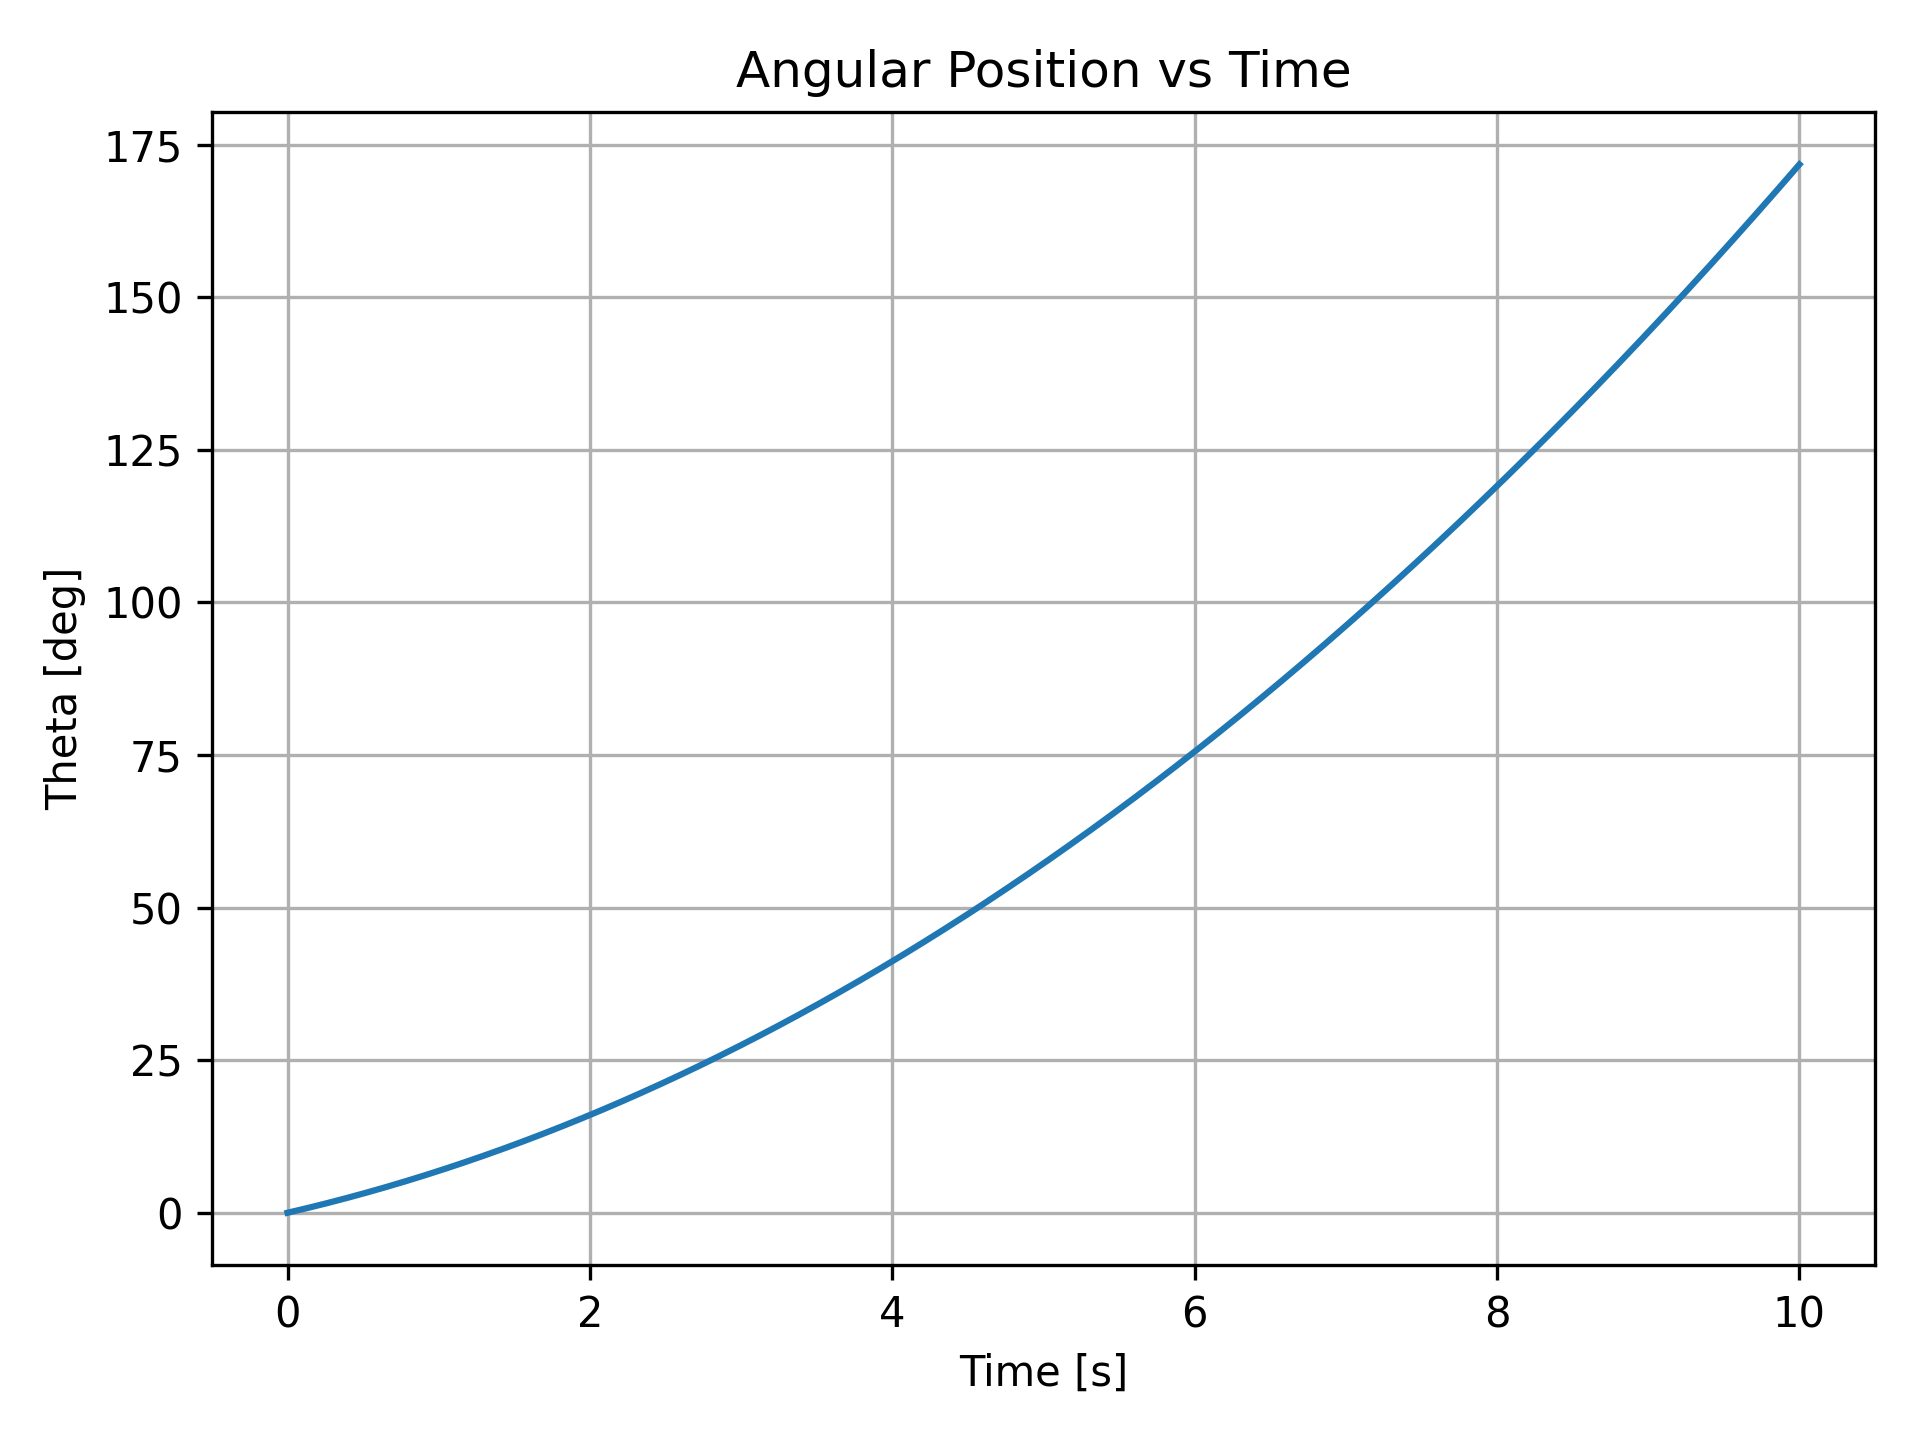
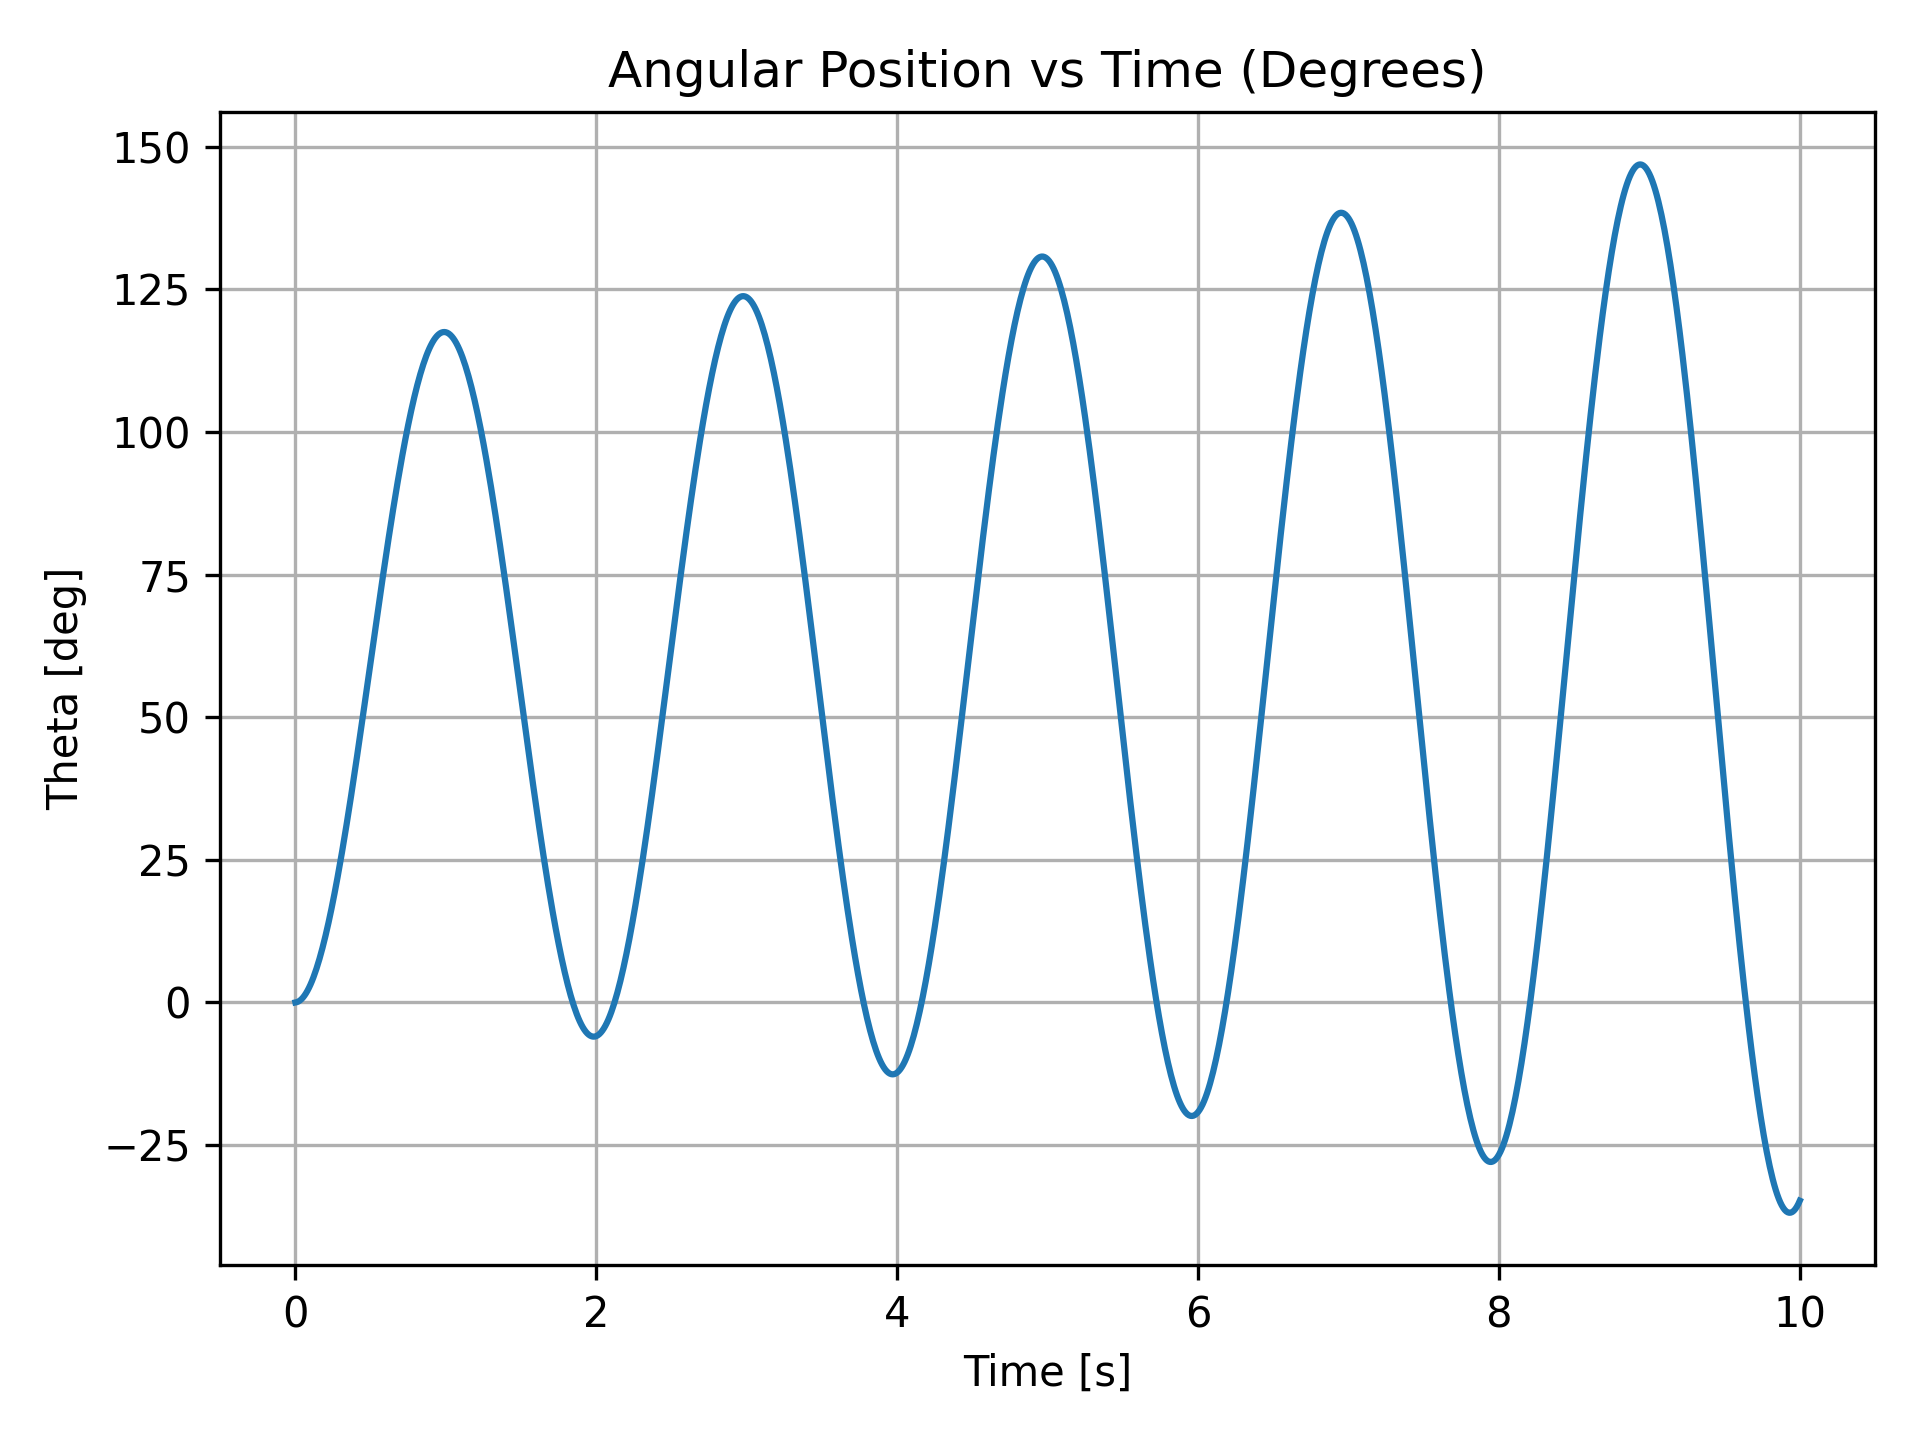
Add proportional closed'loop attitude control

diff --git a/src/plotter.py b/src/plotter.py
@@ -5,8 +5,9 @@ This module handles plotting and saving simulation results.
 """
 
 from pathlib import Path
-import matplotlib.pyplot as plt
 import numpy as np
+import matplotlib.pyplot as plt
+
 
 def plot_results(times, theta, omega, show_plots=True):
     """
@@ -21,13 +22,12 @@ def plot_results(times, theta, omega, show_plots=True):
     results_dir = Path("results")
     results_dir.mkdir(exist_ok=True)
 
-    # Convert to degrees
     theta_deg = np.degrees(theta)
 
-    # Plot 1: Angular position Radians
+    # Angular position in radians
     plt.figure()
     plt.plot(times, theta)
-    plt.title("Angular Position vs Time")
+    plt.title("Angular Position vs Time (Radians)")
     plt.xlabel("Time [s]")
     plt.ylabel("Theta [rad]")
     plt.grid()
@@ -37,10 +37,10 @@ def plot_results(times, theta, omega, show_plots=True):
     if show_plots:
         plt.show(block=False)
 
-    # Plot 2: Angular position Degrees
+    # Angular position in degrees
     plt.figure()
     plt.plot(times, theta_deg)
-    plt.title("Angular Position vs Time")
+    plt.title("Angular Position vs Time (Degrees)")
     plt.xlabel("Time [s]")
     plt.ylabel("Theta [deg]")
     plt.grid()
@@ -50,7 +50,7 @@ def plot_results(times, theta, omega, show_plots=True):
     if show_plots:
         plt.show(block=False)
 
-    # Plot 3: Angular velocity
+    # Angular velocity
     plt.figure()
     plt.plot(times, omega)
     plt.title("Angular Velocity vs Time")
@@ -58,12 +58,10 @@ def plot_results(times, theta, omega, show_plots=True):
     plt.ylabel("Omega [rad/s]")
     plt.grid()
     plt.tight_layout()
-    plt.savefig(results_dir / "angular_velocity_rad.png", dpi=300)
+    plt.savefig(results_dir / "angular_velocity.png", dpi=300)
 
     if show_plots:
         plt.show(block=False)
-
-    if show_plots:
         plt.pause(0.1)
 
     plt.close("all")

diff --git a/src/simulator.py b/src/simulator.py
@@ -11,7 +11,8 @@ from src.dynamics import compute_angular_acceleration
 
 def run_simulation(
     inertia_kgm2: float,
-    torque_nm: float,
+    theta_target_rad: float,
+    kp: float,
     theta0_rad: float,
     omega0_rad_s: float,
     dt_s: float,
@@ -22,7 +23,8 @@ def run_simulation(
 
     Args:
         inertia_kgm2: Moment of inertia [kg*m^2]
-        torque_nm: Applied torque [N*m]
+        theta_target_rad: Desired angular position [rad]
+        kp: Proportional gain
         theta0_rad: Initial angular position [rad]
         omega0_rad_s: Initial angular velocity [rad/s]
         dt_s: Simulation step [s]
@@ -32,18 +34,30 @@ def run_simulation(
         times: Time vector [s]
         theta: Angular position history [rad]
         omega: Angular velocity history [rad/s]
+        torque_cmd: Control torque history [N*m]
+        error_hist: Error history [rad]
     """
     times = np.arange(0.0, t_final_s + dt_s, dt_s)
+    
     theta = np.zeros_like(times)
     omega = np.zeros_like(times)
-
+    torque_cmd = np.zeros_like(times)
+    error_hist = np.zeros_like(times)
+    
     theta[0] = theta0_rad
     omega[0] = omega0_rad_s
+    error_hist[0] = theta_target_rad - theta0_rad
+    torque_cmd[0] = kp * error_hist[0]
 
     for k in range(1, len(times)):
-        alpha = compute_angular_acceleration(torque_nm, inertia_kgm2)
+        error = theta_target_rad - theta[k - 1]
+        torque = kp * error
+
+        alpha = compute_angular_acceleration(torque, inertia_kgm2)
 
         omega[k] = omega[k - 1] + alpha * dt_s
         theta[k] = theta[k - 1] + omega[k - 1] * dt_s
+        error_hist[k] = error
+        torque_cmd[k] = torque
 
-    return times, theta, omega
+    return times, theta, omega, torque_cmd, error_hist

diff --git a/src/config.py b/src/config.py
@@ -2,14 +2,15 @@
 Simulation configuration parameters.
 
 This module centralizes all tunable values used by the simulator.
-Keeping parameters here makes the project easier to maintain and scale.
 """
 
 INERTIA_KGM2 = 0.05       # Moment of inertia [kg*m^2]
-TORQUE_NM = .002          # Applied torque [N*m]
 
 THETA0_RAD = 0.0          # Initial angular position [rad]
 OMEGA0_RAD_S = 0.1        # Initial angular velocity [rad/s]
+
+THETA_TARGET_RAD = 1.0    # Desired angular position [rad]
+KP = 0.5                  # Propotional gain
 
 DT_S = 0.01               # Simulation time step [s]
 T_FINAL_S = 10.0          # Total simulation time [s]

diff --git a/src/main.py b/src/main.py
@@ -6,9 +6,10 @@ This module coordinates configuration, simulation, and visualization.
 
 from src.config import (
     INERTIA_KGM2,
-    TORQUE_NM,
     THETA0_RAD,
     OMEGA0_RAD_S,
+    THETA_TARGET_RAD,
+    KP,
     DT_S,
     T_FINAL_S,
 )
@@ -17,9 +18,10 @@ from src.plotter import plot_results
 
 
 def main():
-    times, theta, omega = run_simulation(
+    times, theta, omega, torque_cmd, error_hist = run_simulation(
         inertia_kgm2=INERTIA_KGM2,
-        torque_nm=TORQUE_NM,
+        theta_target_rad=THETA_TARGET_RAD,
+        kp=KP,
         theta0_rad=THETA0_RAD,
         omega0_rad_s=OMEGA0_RAD_S,
         dt_s=DT_S,

diff --git a/README.md b/README.md
@@ -39,3 +39,7 @@ python -m src.main
 
 ### Angular Position (Degrees)
 ![Angular Position Deg](results/angular_position_deg.png)
+
+Torque now goes from fixed to:
+τ=Kp⋅(θtarget−θ)
+Given the P control
